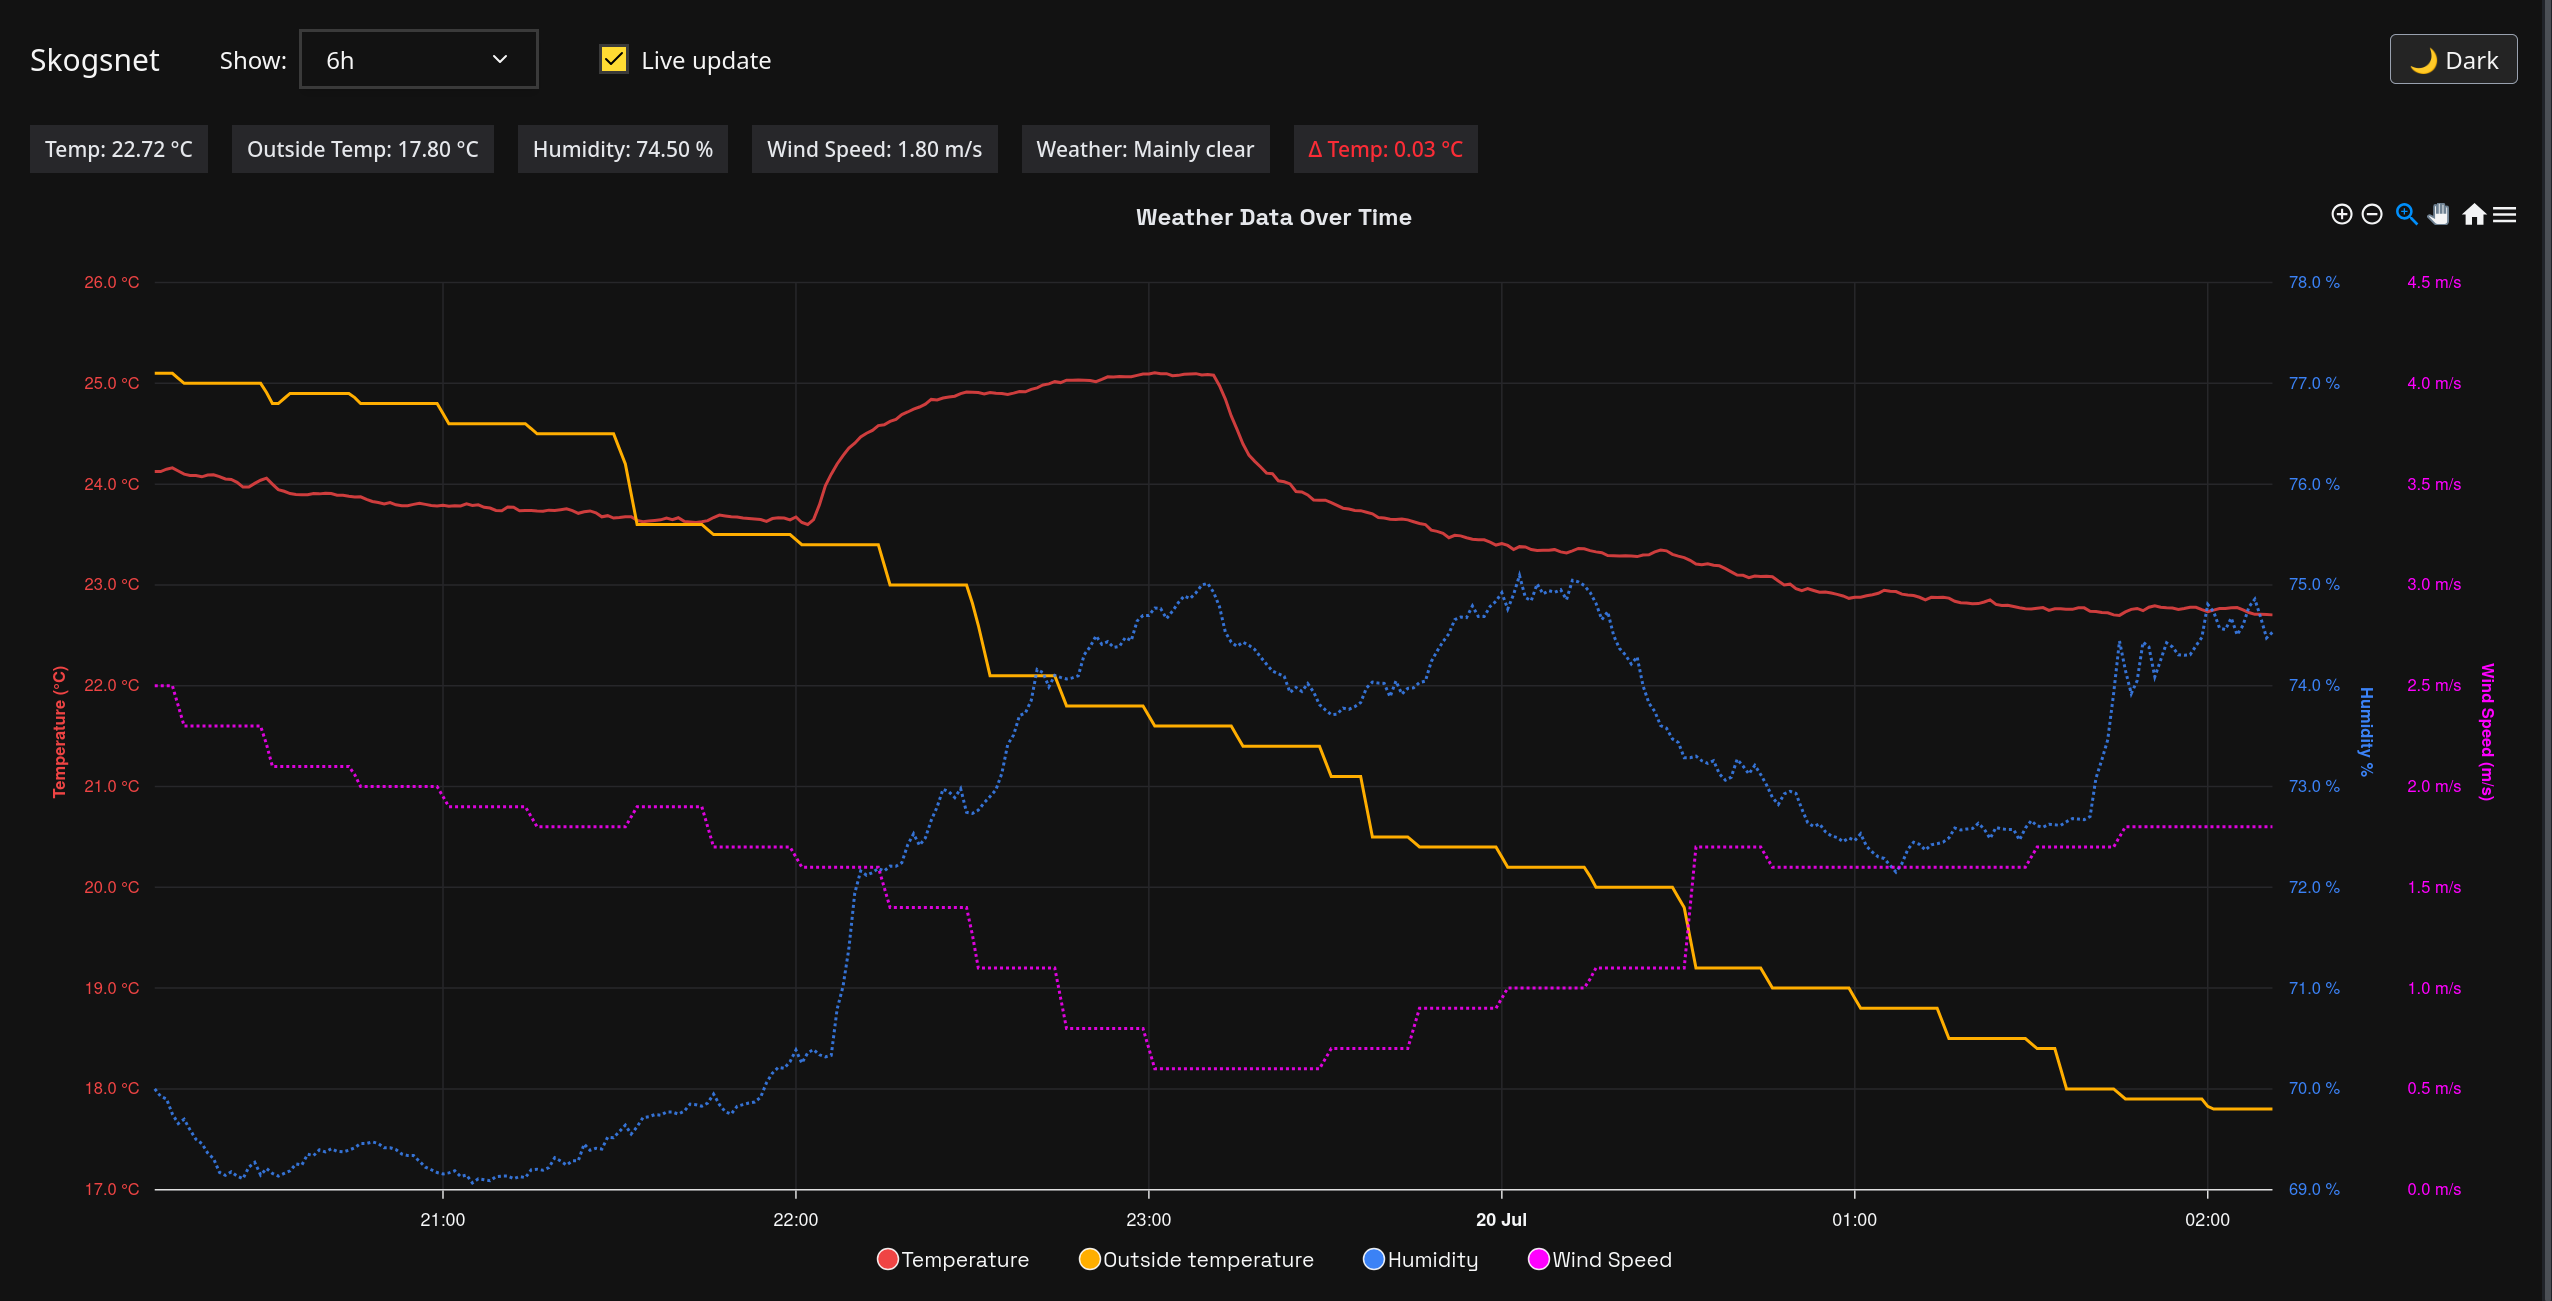
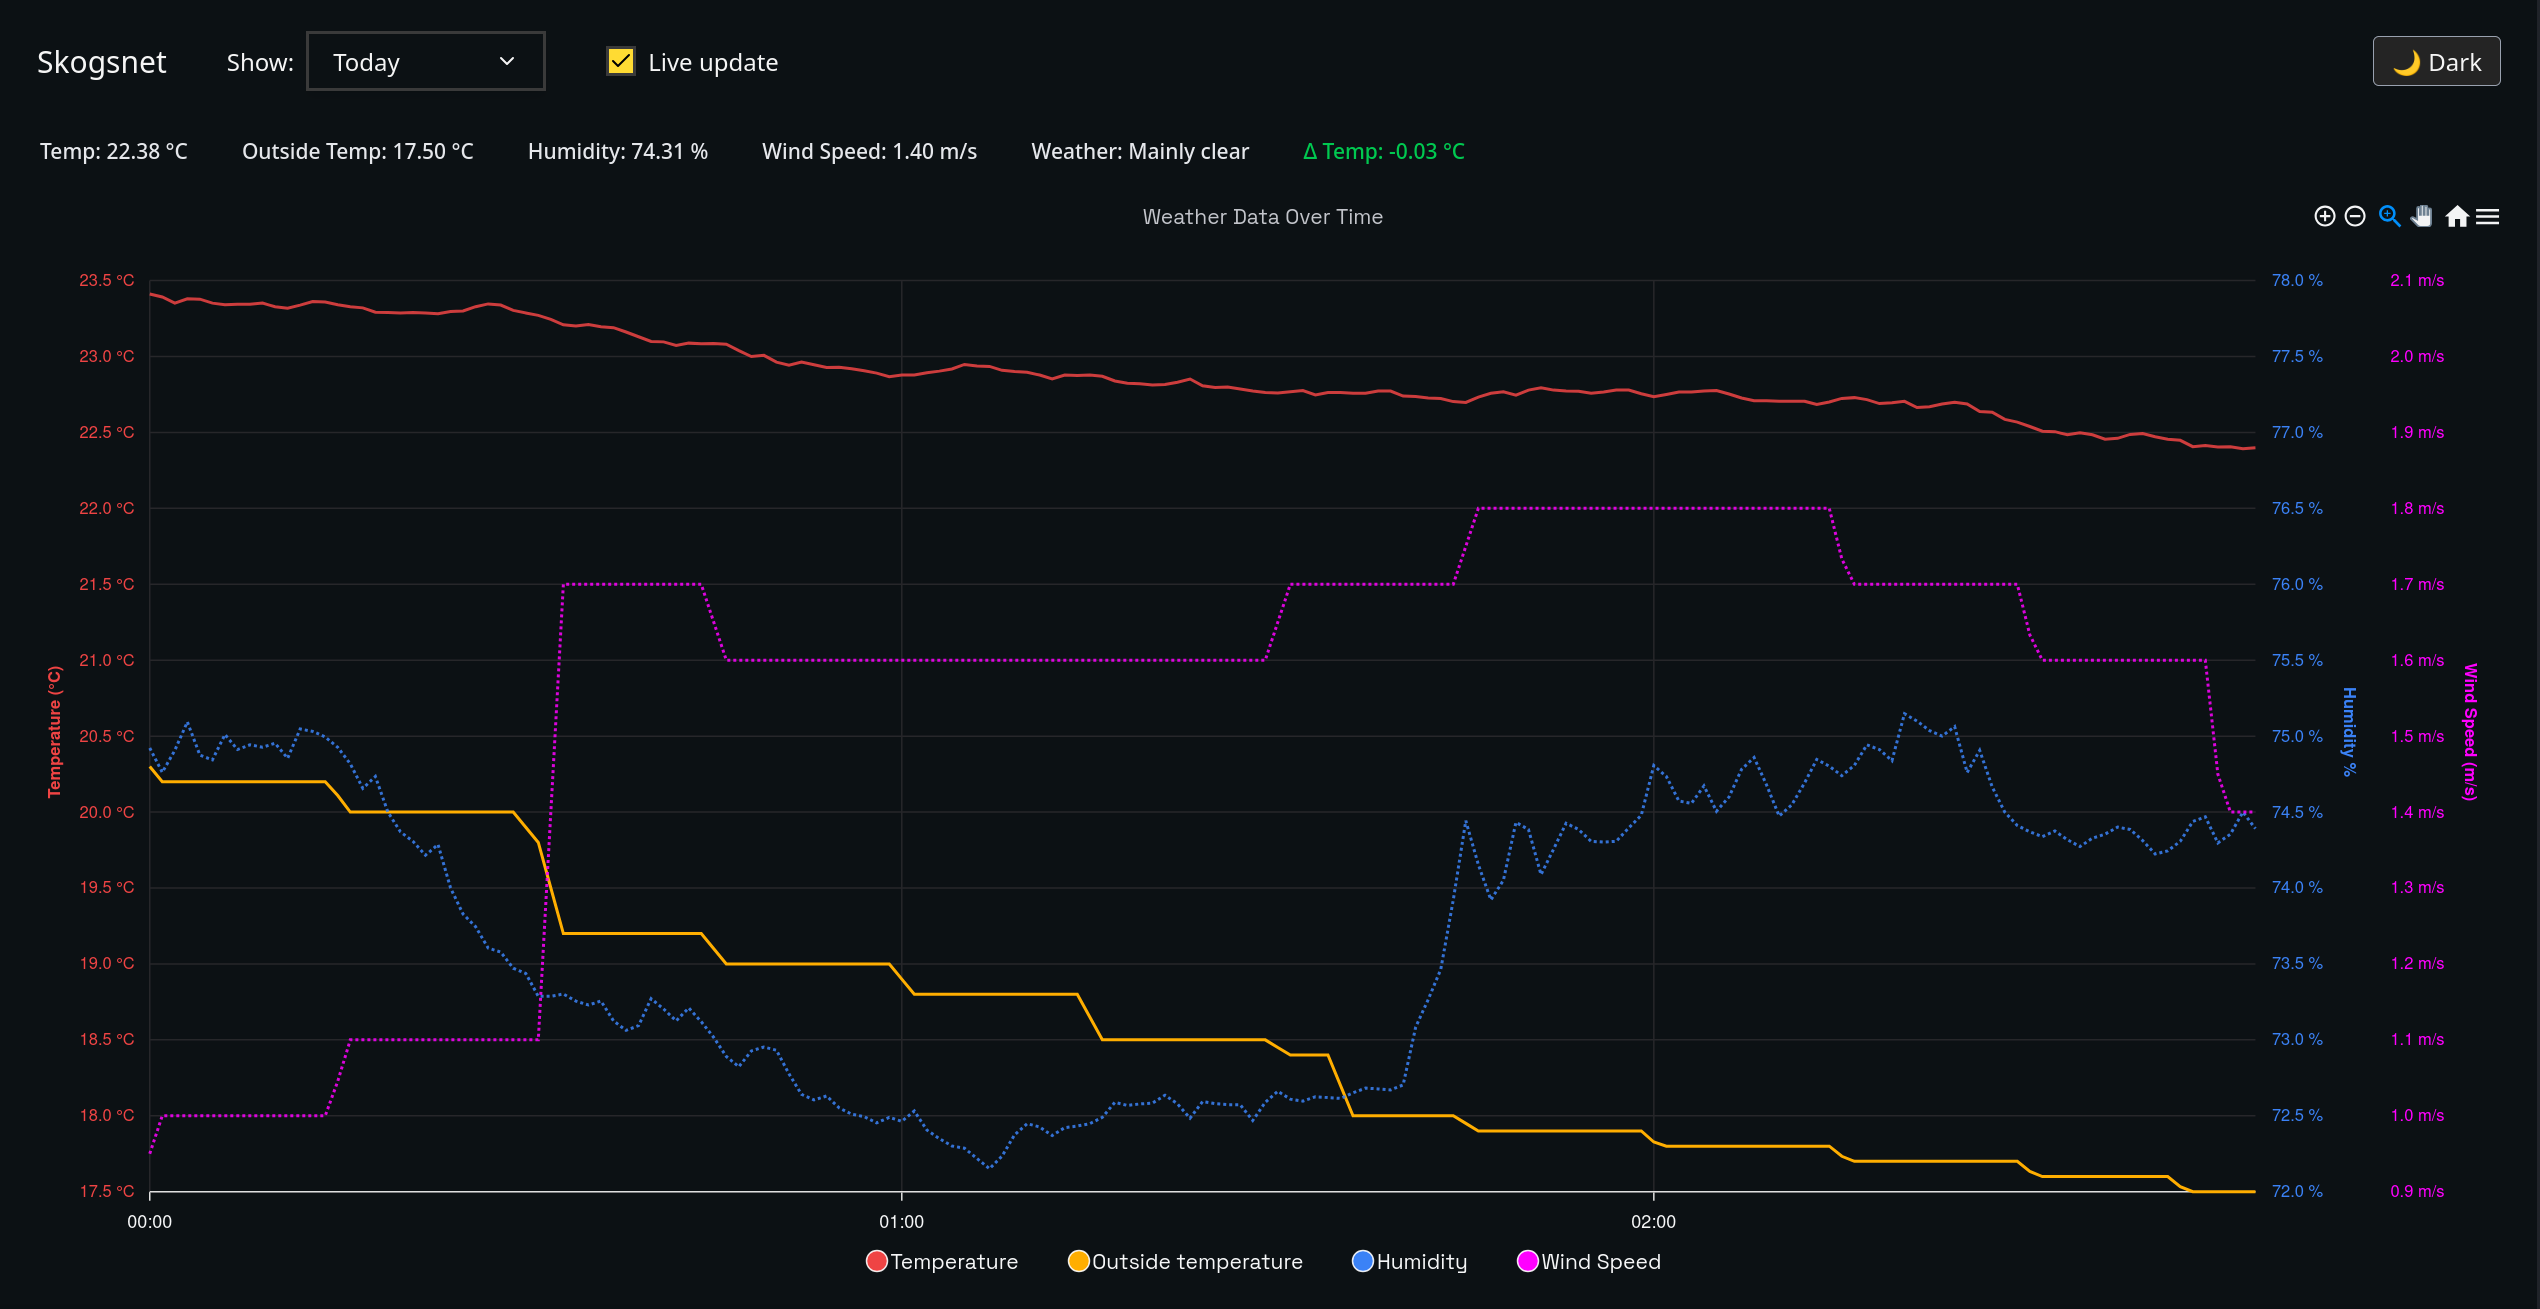
New dark mode colors

diff --git a/skogsnet-frontend/src/components/ChartPanel.tsx b/skogsnet-frontend/src/components/ChartPanel.tsx
@@ -34,7 +34,7 @@ const ChartPanel: React.FC<ChartPanelProps> = ({ darkMode, measurements, chartCo
             animations: {
                 enabled: true,
             },
-            background: darkMode ? "#121212" : "#fff",
+            background: darkMode ? "#0c1114" : "#fff",
         },
         theme: {
             mode: darkMode ? "dark" : "light",
@@ -105,9 +105,10 @@ const ChartPanel: React.FC<ChartPanelProps> = ({ darkMode, measurements, chartCo
             text: "Weather Data Over Time",
             align: "center",
             style: {
-                fontSize: "16px",
+                fontSize: "14px",
                 fontFamily: "Space Grotesk",
-                color: darkMode ? "#e5e7eb" : "#121212",
+                fontWeight: "medium",
+                color: darkMode ? "#c2c4caff" : "#757575ff",
 
             },
         },
@@ -130,6 +131,10 @@ const ChartPanel: React.FC<ChartPanelProps> = ({ darkMode, measurements, chartCo
                     return `${value}`;
                 },
             },
+            style: {
+                fontSize: "12px",
+                fontFamily: "Space Grotesk",
+            }
         },
         yaxis: [
             {
@@ -176,7 +181,7 @@ const ChartPanel: React.FC<ChartPanelProps> = ({ darkMode, measurements, chartCo
     };
 
     return (
-        <div className="w-full h-full min-h-[800px] sm:min-h-[400px] mt-4 mb-4 pl-4 pr-4">
+        <div className="w-full h-full min-h-[800px] sm:min-h-[400px] mt-4 mb-4 pl-4 pr-6">
             <Chart
                 options={chartOptions}
                 series={chartOptions.series}

diff --git a/skogsnet-frontend/src/components/DataBar.tsx b/skogsnet-frontend/src/components/DataBar.tsx
@@ -3,10 +3,12 @@ import type { LatestMeasurementResponse } from "../interfaces/Measurement";
 
 interface DataBarProps {
     data: LatestMeasurementResponse | null;
+    darkMode?: boolean;
 }
 
 export default function DataBar({
     data,
+    darkMode,
 }: DataBarProps) {
     if (data == null || data.latest == null) {
         return (
@@ -17,6 +19,7 @@ export default function DataBar({
             </div>
         )
     }
+
     else {
         return (
             <div id="data-bar" className="flex flex-wrap items-center gap-4 ml-6 mr-6">
@@ -37,8 +40,7 @@ export default function DataBar({
                 </Badge>
                 <Badge size="md" className="w-full sm:w-auto">
                     <span
-                        className={`${(data.trajectory ?? 0) > 0 ? "text-red-500" : (data.trajectory ?? 0) < 0 ? "text-green-500" : "text-white"
-                            }`}
+                        className={`${(data.trajectory ?? 0) > 0 ? "text-red-500" : (data.trajectory ?? 0) < 0 ? "text-green-500" : (darkMode ? "text-gray-200" : "text-gray-700")}`}
                     >
                         Δ Temp: {(data.trajectory ?? 0).toFixed(2)} °C
                     </span>

diff --git a/skogsnet-frontend/src/components/retroui/Badge.tsx b/skogsnet-frontend/src/components/retroui/Badge.tsx
@@ -2,13 +2,16 @@ import { cn } from "../../lib/utils";
 import { cva, type VariantProps } from "class-variance-authority";
 import { type HTMLAttributes } from "react";
 
+const backgroundColorDark = "#557188";
+const backgroundColorLight = "#FF0000";
+
 const badgeVariants = cva("font-semibold", {
   variants: {
     variant: {
-      default: "bg-gray-200 text-gray-700 dark:bg-zinc-800 dark:text-gray-200",
-      outline: "outline-2 outline-foreground text-foreground dark:outline-gray-200 dark:text-gray-200",
-      solid: "bg-foreground text-background dark:bg-gray-200 dark:text-zinc-900",
-      surface: "outline-2 bg-primary text-black dark:bg-zinc-700 dark:text-gray-100",
+      default: `bg-[${backgroundColorLight}] text-gray-700 dark:bg-[${backgroundColorDark}] dark:text-gray-200`,
+      outline: `outline-2 outline-foreground text-foreground dark:outline-[${backgroundColorDark}] dark:text-gray-200`,
+      solid: `bg-[${backgroundColorLight}] text-background dark:bg-[${backgroundColorDark}] dark:text-zinc-900`,
+      surface: `outline-2 bg-primary text-black dark:bg-[${backgroundColorDark}] dark:text-gray-100`,
     },
     size: {
       sm: "px-2 py-1 text-xs font-medium",

diff --git a/skogsnet-frontend/src/components/TopBar.tsx b/skogsnet-frontend/src/components/TopBar.tsx
@@ -24,7 +24,7 @@ const TopBar: FC<TopBarProps> = ({
     fetchError,
     TimeRangeSelection,
 }) => (
-    <div id="top-bar" className="flex flex-col p-6">
+    <div id="top-bar" className="flex flex-col p-6 pl-8 pr-8">
         {/* Desktop */}
         <div className="hidden sm:flex flex-row items-center w-full gap-4">
             <Text as="h4" className="w-auto">Skogsnet</Text>

diff --git a/skogsnet-frontend/src/App.tsx b/skogsnet-frontend/src/App.tsx
@@ -110,7 +110,10 @@ function App() {
         TimeRangeSelection={TimeRangeSelection}
       />
 
-      <DataBar data={latestMeasurement} />
+      <DataBar
+        darkMode={darkMode}
+        data={latestMeasurement}
+      />
 
       <ChartPanel
         darkMode={darkMode}

diff --git a/skogsnet-frontend/src/App.css b/skogsnet-frontend/src/App.css
@@ -47,7 +47,7 @@
 }
 
 .dark {
-  --background: #121212;
+  --background: #0c1114;
   --foreground: #f5f5f5;
   --card: #242424;
   --card-foreground: #f5f5f5;

diff --git a/README.md b/README.md
@@ -107,7 +107,7 @@ Measurement at 2025-07-14 16:50:08
     - Humidity (Sensor and outside)
     - Wind speed
     - Weather description
-    - Delta temperature (trajectory)
+    - Sensor temperature derivative trajectory
   - Live data updates (toggleable)
   - Responsive design
   - Dark mode support
